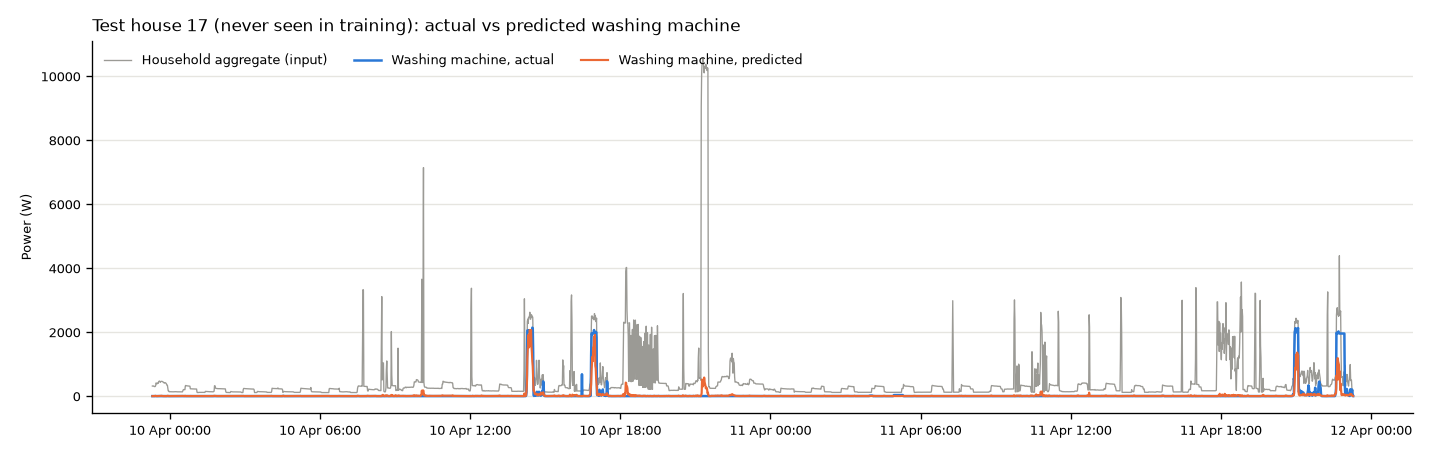
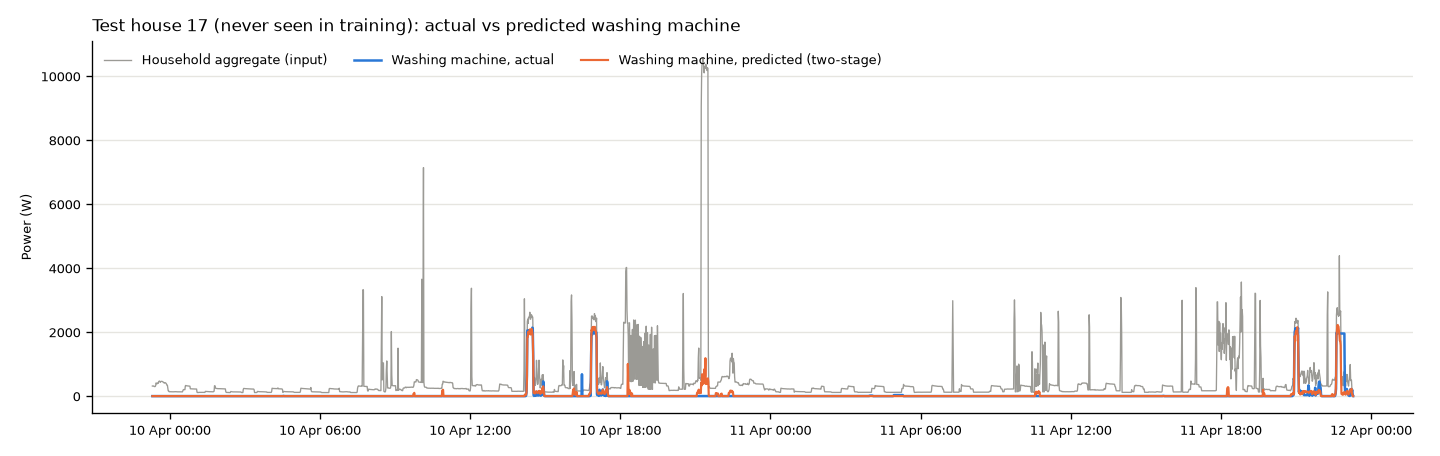
Step 4 outputs: two-stage model

diff --git a/outputs/model_metrics.md b/outputs/model_metrics.md
@@ -1,30 +1,32 @@
 # Model results
 
-Train houses [2, 5, 7, 9], validation house [15], test house [17]. Best iteration: 156.
+Train houses [2, 5, 7, 9], validation house [15], test house [17]. Best iterations: direct 125, classifier 65, running-power regressor 283. Two-stage threshold (chosen on validation house): 0.1.
 
 ## Test house 17
 
-            MAE all minutes (W)  MAE while running (W)  total energy error (%)  daily energy MAE (kWh/day)  on/off precision  on/off recall  on/off F1
-always_off               10.460                435.109                -100.000                       0.245             0.000          0.000      0.000
-profile                  34.904                399.503                 152.529                       0.473             0.036          0.791      0.070
-lightgbm                 15.319                291.691                  15.386                       0.230             0.249          0.812      0.382
+             MAE all minutes (W)  MAE while running (W)  total energy error (%)  daily energy MAE (kWh/day)  on/off precision  on/off recall  on/off F1
+always_off                10.507                435.109                -100.000                       0.245             0.000          0.000      0.000
+profile                   35.296                399.195                 154.972                       0.479             0.037          0.801      0.070
+lgbm_direct               14.109                295.968                   1.081                       0.202             0.253          0.790      0.383
+lgbm_2stage               16.419                193.576                  89.810                       0.259             0.329          0.791      0.465
 
 ## Validation house 15
 
-            MAE all minutes (W)  MAE while running (W)  total energy error (%)  daily energy MAE (kWh/day)  on/off precision  on/off recall  on/off F1
-always_off               17.194                585.997                -100.000                       0.381             0.000          0.000      0.000
-profile                  41.830                557.162                  53.917                       0.587             0.038          0.671      0.071
-lightgbm                 13.685                362.338                 -43.086                       0.250             0.542          0.716      0.617
+             MAE all minutes (W)  MAE while running (W)  total energy error (%)  daily energy MAE (kWh/day)  on/off precision  on/off recall  on/off F1
+always_off                17.221                585.997                -100.000                       0.381             0.000          0.000      0.000
+profile                   42.206                556.901                  55.821                       0.590             0.038          0.680      0.072
+lgbm_direct               13.696                357.845                 -41.622                       0.248             0.566          0.694      0.624
+lgbm_2stage               10.212                215.434                  -6.778                       0.147             0.724          0.747      0.735
 
-## Top 10 features (split count)
+## Top 10 features of the classifier (split count)
 
-min_120        610
-hour           540
-std_120        478
-max_120        445
-above_min60    383
-mean_120       371
-min_60         359
-lead_30        356
-steps_60       336
-lag_30         294
+min_120     370
+hour        343
+max_120     324
+std_120     235
+dow         192
+std_5       132
+lag_30      130
+lead_30     130
+max_60      119
+mean_120    113
